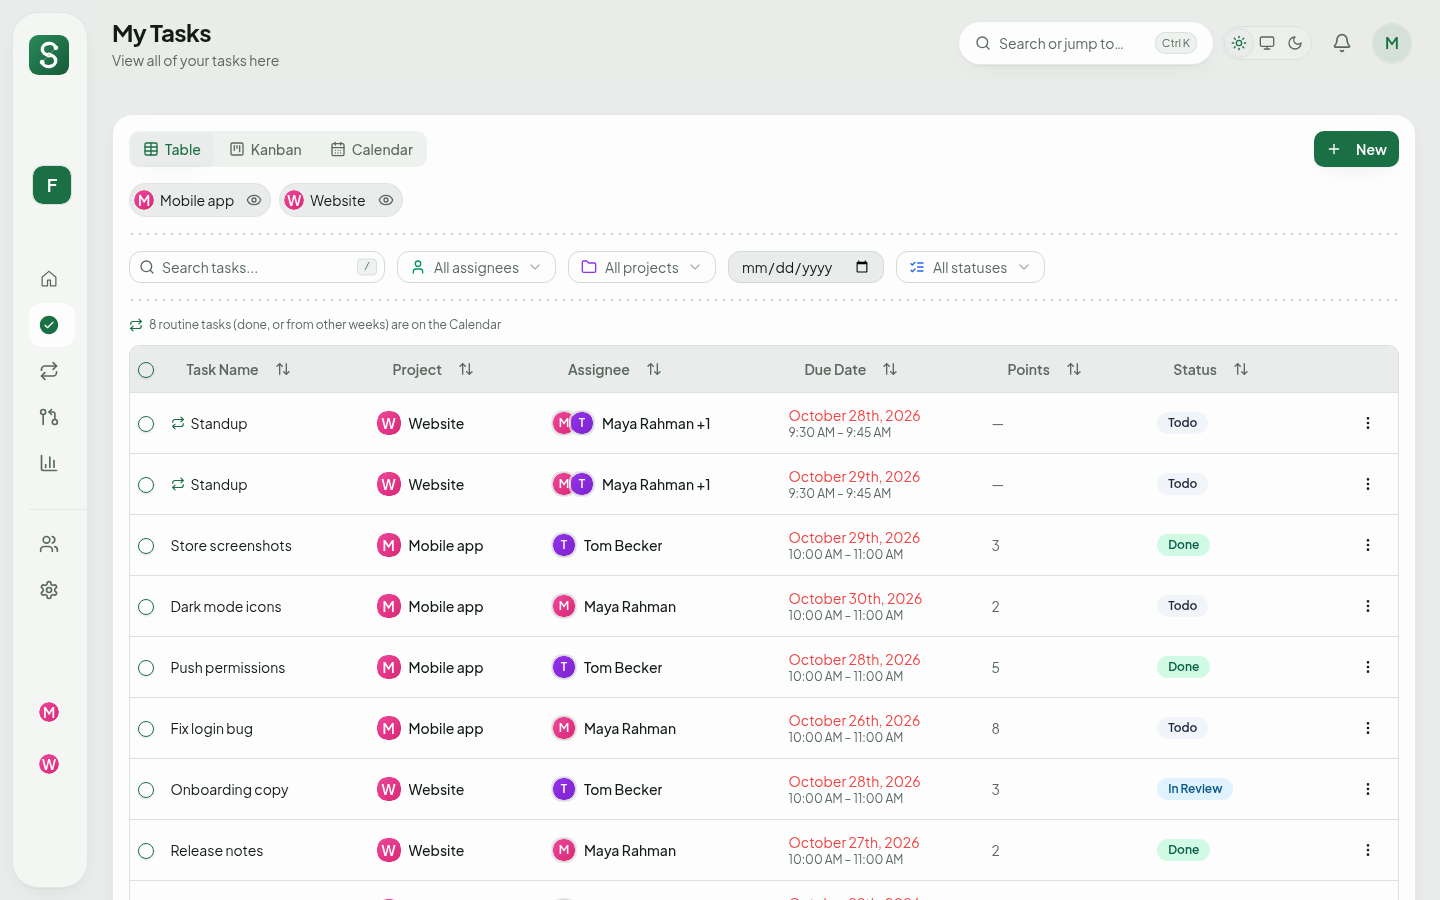
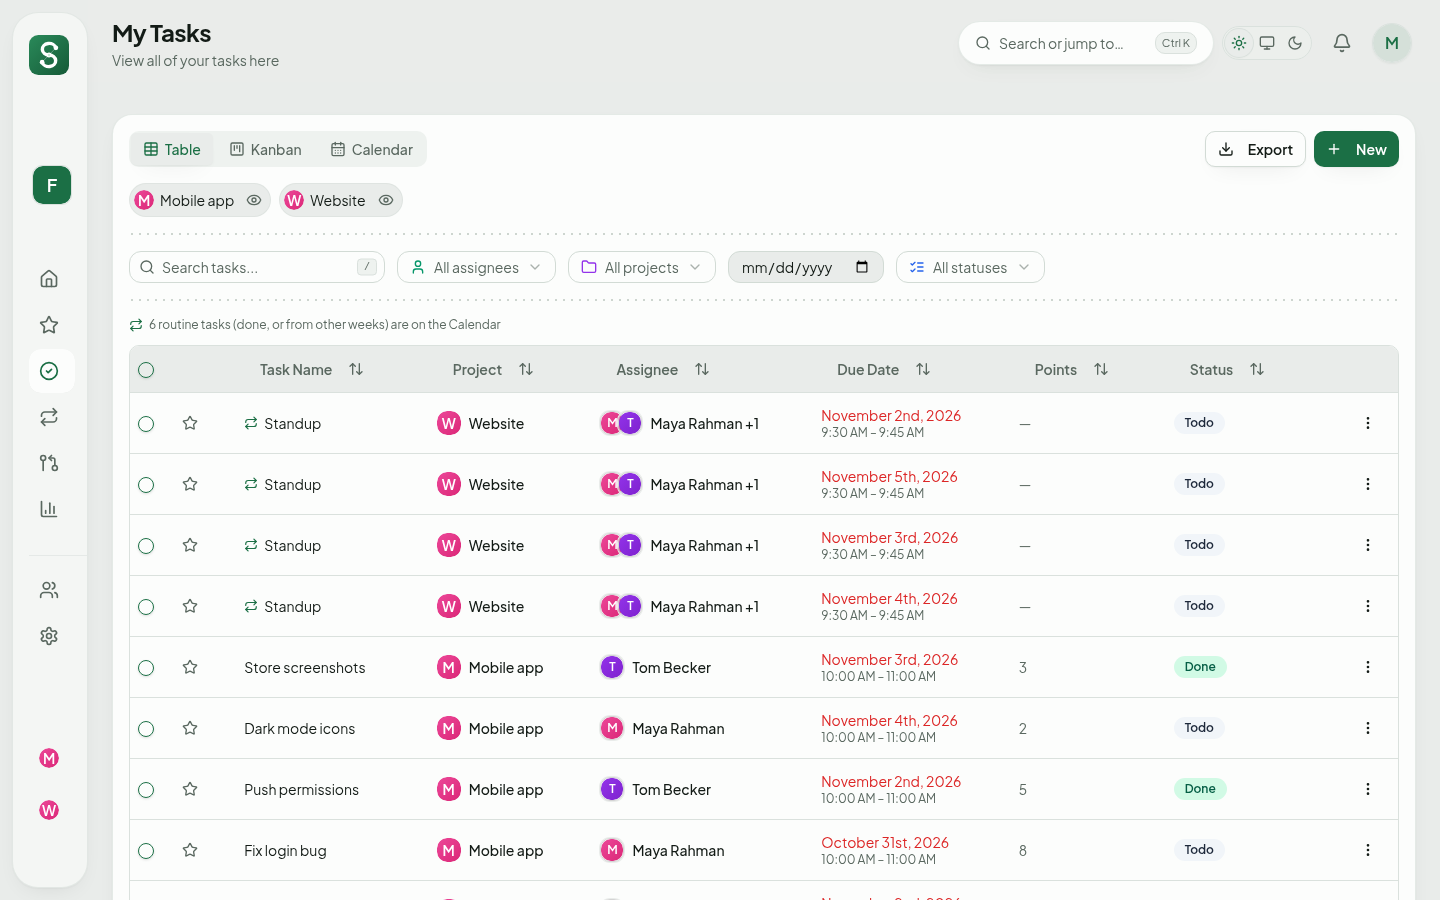
feat: update README and self-hosting documentation, add fresh start instructions; enhance accessibility tests and integrate Vercel Speed Insights

diff --git a/src/components/about-content.tsx b/src/components/about-content.tsx
@@ -38,6 +38,9 @@ import {
     CloudIcon,
     RefreshCwIcon,
     RepeatIcon,
+    StarIcon,
+    DownloadIcon,
+    SlidersHorizontalIcon,
     ShieldCheckIcon,
     GitPullRequestArrowIcon,
     BellIcon,
@@ -64,15 +67,18 @@ const roleCard = (role: MemberRole) => ({ label: ROLE_LABELS[role], description:
 const FEATURES = [
     { icon: TargetIcon, title: "Sprint Management", description: "Give each project a sprint, then follow its countdown, story points and progress from the dashboard.", badge: "Core Feature" },
     { icon: CheckCircleIcon, title: "Task Management", description: "Story points, due dates, time blocks and several assignees, moving through Backlog, To Do, In Progress, In Review and Done.", badge: "Core Feature" },
-    { icon: CalendarIcon, title: "Multiple Views", description: "Switch between a table, a kanban board and a calendar, with drag and drop in each. Undo is one click away.", badge: "Flexible" },
+    { icon: CalendarIcon, title: "Multiple Views", description: "Switch between a table, a kanban board and a calendar, with drag and drop in each. Drop a card on the bin to delete it; Undo is one click away.", badge: "Flexible" },
     { icon: RepeatIcon, title: "Weekly Routines", description: "Set up standups and other repeating work once. Tasks are created on their days through the sprint, skipping days off, and each routine picks the views its tasks show in. Personal routines need no project.", badge: "New!" },
     { icon: ShieldCheckIcon, title: "Roles & Review", description: "Admin, Supervisor, Reviewer, Assignee and Viewer. Assignees take work to In Review; a reviewer approves it to Done.", badge: "New!" },
     { icon: GitPullRequestArrowIcon, title: "Change Requests", description: "Assignees and reviewers propose new tasks, edits or deletions, and an admin or supervisor approves or declines them.", badge: "New!" },
-    { icon: BellIcon, title: "Reminders", description: "In-app and push notifications: tomorrow's tasks at 6 PM, 30 minutes before a task ends, and decisions on your requests.", badge: "Essential" },
+    { icon: BellIcon, title: "Reminders", description: "In-app and push notifications: tomorrow's tasks the evening before, a heads-up before a task ends (you pick both times), and decisions on your requests.", badge: "Essential" },
     { icon: ListPlusIcon, title: "Bulk Input", description: "Add, change or remove many projects, tasks, routines and days off at once, checked line by line, or let your AI assistant write them. Reviewers and assignees can add tasks too; tasks for others go for approval. You can even set up a whole new workspace this way.", badge: "New!" },
+    { icon: StarIcon, title: "Starred", description: "Star the tasks and routines you keep coming back to, and find them all on one page across your workspaces.", badge: "New!" },
+    { icon: DownloadIcon, title: "Export", description: "Tasks as CSV or a calendar file, a live calendar link for Google or Apple Calendar, charts as images, and a full backup of the workspace.", badge: "New!" },
+    { icon: SlidersHorizontalIcon, title: "Your Way", description: "Date and time format, week start, starting views, table sorting, compact Kanban cards, theme and reduced motion, saved to your account.", badge: "New!" },
     { icon: BarChart3Icon, title: "Analytics Dashboard", description: "Capacity calculator, burndown chart, velocity tracker and sprint reports.", badge: "Advanced" },
     { icon: UsersIcon, title: "Team Collaboration", description: "Invite links with optional expiry and use limits, a separate view-only link, and placeholders for people who haven't joined yet.", badge: "Essential" },
-    { icon: KeyboardIcon, title: "Keyboard Friendly", description: "Jump anywhere with Ctrl/⌘ K, create a task with C, search with /, and press ? for every shortcut.", badge: "Fast" },
+    { icon: KeyboardIcon, title: "Keyboard Friendly", description: "Jump anywhere with Ctrl/⌘ K, create a task with C, search with /, and press ? for every shortcut. Boards, the calendar and every dialog work without a mouse.", badge: "Fast" },
     { icon: SmartphoneIcon, title: "Works Everywhere", description: "Responsive on phones, tablets and desktops, installable as an app, with light and dark themes.", badge: "Universal" },
 ];
 
@@ -92,9 +98,9 @@ const ANALYTICS_TOOLS = [
 
 const BENEFITS = [
     { icon: ZapIcon, color: "text-green-600", title: "Fast", description: "Pages open straight from data cached in your browser, then refresh quietly in the background." },
-    { icon: ShieldIcon, color: "text-primary", title: "Secure by Default", description: "Argon2-hashed passwords, lockout after repeated failed logins, single-use reset links and TLS to the database." },
+    { icon: ShieldIcon, color: "text-primary", title: "Secure by Default", description: "Argon2-hashed passwords, email verification, lockout after repeated failed logins, single-use reset links and TLS to the database." },
     { icon: RefreshCwIcon, color: "text-blue-600", title: "Always in Sync", description: "Changes your teammates make show up on their own within a minute, without reloading." },
-    { icon: CloudIcon, color: "text-sky-600", title: "Your Own Data", description: "Stored in a self-hosted PostgreSQL database with nightly backups." },
+    { icon: CloudIcon, color: "text-sky-600", title: "Your Own Data", description: "Stored in a self-hosted PostgreSQL database with encrypted nightly backups, and yours to export any time." },
     { icon: CalendarDaysIcon, color: "text-purple-600", title: "Fits Your Calendar", description: "Public holidays, your own days off, working hours and your time zone shape routines and reminders." },
     { icon: HeartIcon, color: "text-red-600", title: "Made for Small Teams", description: "Built around how small agile teams actually plan, review and ship their sprints." },
 ];

diff --git a/src/features/workspaces/components/bulk-input.tsx b/src/features/workspaces/components/bulk-input.tsx
@@ -20,6 +20,7 @@ import { canEditWork, canManageWorkspace } from "@/features/members/permissions"
 import { useGetProjects } from "@/features/projects/api/use-get-projects";
 import { restoreTasks, toastWithUndo } from "@/features/tasks/api/undo";
 import { useConfirm } from "@/hooks/use-confirm";
+import { localDate } from "@/lib/time-zone";
 
 import type { LineResult } from "../server/bulk-input";
 import { Workspace } from "../types";
@@ -201,7 +202,7 @@ const BulkEditor = ({ run, prompt, applyLabel = "Apply", disabled, onApplied, in
             `- Workspace: "${workspaceName}"`,
             `- Existing projects: ${projectNames}`,
             `- Existing members and placeholders: ${memberNames}`,
-            `- Today is ${new Date().toISOString().slice(0, 10)}; times are in ${timeZone}.${workDay ? ` Working hours are ${workDay}.` : ""}`,
+            `- Today is ${localDate(new Date(), timeZone)}; times are in ${timeZone}.${workDay ? ` Working hours are ${workDay}.` : ""}`,
             "",
             "## Don'ts",
             "- Don't invent options, commands or statuses that aren't listed above.",

diff --git a/src/lib/reminders.ts b/src/lib/reminders.ts
@@ -5,7 +5,7 @@ import { and, eq, gte, isNotNull, lt, ne, sql } from "drizzle-orm";
 import { db } from "@/lib/db";
 import { members, notifications, projects, tasks, users, workspaces } from "@/lib/db/schema";
 import { pushToUser } from "@/lib/push";
-import { isValidTimeZone, zonedTimeToUtc } from "@/lib/time-zone";
+import { isValidTimeZone, localDate, zonedTimeToUtc } from "@/lib/time-zone";
 import { resolvePreferences } from "@/features/auth/preferences";
 import { TaskStatus } from "@/features/tasks/types";
 import { taskEnd } from "@/lib/overdue";
@@ -17,9 +17,6 @@ const DAY = 24 * 60 * MINUTE;
 // sends what fell due; the dedupe key keeps anything from going out twice
 export const LOOKBACK_MINUTES = 15;
 
-// YYYY-MM-DD of an instant in a time zone
-export const localDate = (instant: Date, timeZone: string) =>
-    new Intl.DateTimeFormat("en-CA", { timeZone, year: "numeric", month: "2-digit", day: "2-digit" }).format(instant);
 
 const atLocal = (date: string, time: string, timeZone: string) => {
     const [year, month, day] = date.split("-").map(Number);

diff --git a/src/lib/overdue.ts b/src/lib/overdue.ts
@@ -4,7 +4,7 @@ import { and, eq, inArray, isNotNull, lt, sql } from "drizzle-orm";
 
 import { db } from "@/lib/db";
 import { members, tasks, users, workspaces } from "@/lib/db/schema";
-import { isValidTimeZone, zonedTimeToUtc } from "@/lib/time-zone";
+import { isValidTimeZone, localDate, zonedTimeToUtc } from "@/lib/time-zone";
 import { resolvePreferences } from "@/features/auth/preferences";
 import { DEFAULT_DURATION_MINUTES } from "@/features/tasks/task-time";
 import { TaskStatus } from "@/features/tasks/types";
@@ -12,9 +12,6 @@ import { TaskStatus } from "@/features/tasks/types";
 const DEFAULT_TIME_ZONE = "Asia/Dhaka";
 // Tasks with only a date end when the workspace's working day ends (as for reminders)
 export const DEFAULT_DAY_END = "18:00";
-
-const localDate = (instant: Date, timeZone: string) =>
-    new Intl.DateTimeFormat("en-CA", { timeZone, year: "numeric", month: "2-digit", day: "2-digit" }).format(instant);
 
 // When a task ends: its time block's end, or the end of the working day on its due date, in the
 // assignee's time zone

diff --git a/src/app/layout.tsx b/src/app/layout.tsx
@@ -5,6 +5,7 @@ import { Plus_Jakarta_Sans } from "next/font/google";
 import { cn } from "@/lib/utils";
 import { Toaster } from "@/components/ui/sonner";
 import { NuqsAdapter } from "nuqs/adapters/next/app";
+import { SpeedInsights } from "@vercel/speed-insights/next";
 
 import { QueryProvider } from "@/components/query-providor";
 import { ThemeProvider } from "@/components/theme-provider";
@@ -79,6 +80,10 @@ export default async function RootLayout(
           </QueryProvider>
           </NuqsAdapter>
         </ThemeProvider>
+        {/* Real-user page speed (Vercel Speed Insights). Only on Vercel: elsewhere it would load a
+            debug script from Vercel's CDN. Its script and reports stay on this site (/_vercel/...),
+            which the CSP's 'self' and 'strict-dynamic' already allow */}
+        {process.env.VERCEL === "1" && <SpeedInsights />}
       </body>
     </html>
   );

diff --git a/e2e/a11y.spec.ts b/e2e/a11y.spec.ts
@@ -29,8 +29,11 @@ const scan = async (page: Page, label: string) => {
 const open = async (page: Page, path: string, ready: () => Promise<void>) => {
     await page.goto(path, { timeout: 90_000 });
     await ready();
-    // Let entrance animations settle so contrast is measured on final colors
-    await page.waitForTimeout(800);
+    // Let entrance animations settle so contrast is measured on final colors (staggered lists
+    // finish later the longer they are, so wait for them rather than a fixed time)
+    await page.waitForTimeout(300);
+    await page.waitForFunction(() => document.getAnimations().every((a) => a.playState !== "running"), null, { timeout: 10_000 });
+    await page.waitForTimeout(200);
 };
 
 test.beforeAll(async ({ baseURL }) => {

diff --git a/src/features/workspaces/server/bulk-apply.ts b/src/features/workspaces/server/bulk-apply.ts
@@ -7,7 +7,7 @@ import { removeAssignee } from "@/lib/db/assignees";
 import { members, projects, routines, tasks, users, workspaceHolidays } from "@/lib/db/schema";
 import { toTaskDoc } from "@/features/tasks/server/task-list";
 import { generateRoutineTasks, removeRoutineTasksOn, retimeUpcomingRoutineTasks } from "@/lib/routines";
-import { localDate } from "@/lib/reminders";
+import { localDate } from "@/lib/time-zone";
 import { MemberRole } from "@/features/members/types";
 
 import { AMBIGUOUS, sprintDays, taskReferences, type Context, type Planned } from "./bulk-input";

diff --git a/src/features/export/server/route.ts b/src/features/export/server/route.ts
@@ -10,7 +10,7 @@ import { and, arrayContains, arrayOverlaps, asc, eq, gte, inArray, isNotNull, is
 import { db } from "@/lib/db";
 import { changeRequests, members, projects, routines, tasks, users, workspaceHolidays, workspaces } from "@/lib/db/schema";
 import { rateLimited } from "@/lib/rate-limit";
-import { localDate } from "@/lib/reminders";
+import { localDate } from "@/lib/time-zone";
 import { sessionMiddleware } from "@/lib/session-middleware";
 import { VOLUME_CAPS } from "@/lib/volume-caps";
 import { forgetCachedSessions, mergePreferences } from "@/lib/auth";

diff --git a/src/lib/time-zone.ts b/src/lib/time-zone.ts
@@ -37,3 +37,7 @@ export const zonedTimeToUtc = (year: number, month: number, day: number, time: s
     const first = wallClock - offsetMinutes(timeZone, new Date(wallClock)) * 60_000;
     return new Date(wallClock - offsetMinutes(timeZone, new Date(first)) * 60_000);
 };
+
+// YYYY-MM-DD of an instant in a time zone
+export const localDate = (instant: Date, timeZone: string) =>
+    new Intl.DateTimeFormat("en-CA", { timeZone, year: "numeric", month: "2-digit", day: "2-digit" }).format(instant);

diff --git a/docs/self-hosting.md b/docs/self-hosting.md
@@ -62,6 +62,26 @@ It downloads that day's parts, checks the hash, decrypts, restores into a throwa
 
 Limits to know: the channel grows forever (bots can't delete their messages after 48 hours; a few MB a night is fine), and Telegram isn't a storage service, so the 14 local dumps stay the first copy.
 
+## Fresh start (empty the database)
+
+Deletes every user, workspace, task and session; everyone signs up again. The tables, roles and migration history stay, so nothing needs re-migrating.
+1. Back up first: `sh ~/docker/postgres/backup.sh` (a local dump plus the encrypted Telegram copy).
+2. Empty every app table in one transaction, as the superuser inside the container:
+   ```
+   docker exec -i scrumspecter-postgres psql -U scrumspecter -d scrumspecter -v ON_ERROR_STOP=1 <<'SQL'
+   BEGIN;
+   DO $$ DECLARE stmt text; BEGIN
+     SELECT 'TRUNCATE TABLE ' || string_agg(format('%I.%I', schemaname, tablename), ', ') || ' RESTART IDENTITY CASCADE'
+       INTO stmt FROM pg_tables WHERE schemaname = 'public';
+     EXECUTE stmt;
+   END $$;
+   COMMIT;
+   SQL
+   ```
+   Migration history lives in the `drizzle` schema, which this leaves alone.
+3. Apply any pending migrations as usual (Database, step 4).
+4. Optional: delete older dumps in `backups/`. Keep `telegram-backups.log`: restoring a Telegram backup needs it. Sessions cached by a running server end within 30 seconds.
+
 ## Monitoring
 - **Uptime:** `.github/workflows/uptime.yml` calls `/api/health` every 15 minutes from GitHub. The endpoint answers 200 with `{"ok":true,"db":"up"}`, or 503 when the database can't be reached in 3 seconds. A failing run emails the repo owner.
 - **Disk space:** `scripts/pi/disk-alert.sh` posts to the Telegram channel when `/mnt/pgdata` or `/mnt/torrents` is over 80% full (once a day per disk). Crontab: `0 * * * * sh /home/<ssh-user>/docker/postgres/disk-alert.sh`.

diff --git a/README.md b/README.md
@@ -48,7 +48,7 @@
 | 🗂 **Three views, one board** | Table, kanban and calendar, all with drag and drop, undo and bulk edit. |
 | 👥 **Roles that fit real teams** | Admins, Supervisors, Reviewers, Assignees and Viewers. Anyone without edit rights proposes a change request instead. |
 | 🔁 **Routines that plan themselves** | Weekly tasks are generated through the end of the sprint and skip holidays and your days off. Personal routines (no project) keep the next two weeks filled. |
-| 🔔 **Reminders that land** | Push and in-app: a 6 PM preview of tomorrow, plus a nudge 30 minutes before a task ends. |
+| 🔔 **Reminders that land** | Push and in-app: an evening preview of tomorrow, plus a nudge before a task ends, at times you choose. |
 | 🤖 **Bulk input with an AI prompt** | Set up a whole sprint in one paste. Every line is validated before anything is saved. |
 | 📈 **Analytics built in** | Burndown, velocity, a capacity calculator and a Markdown sprint report. |
 
@@ -288,7 +288,7 @@ Both need `Authorization: Bearer $CRON_SECRET`.
 
 ## 🛠 Deployment and self-hosting
 
-The live site runs on Vercel with a self-hosted PostgreSQL 17 database. The full setup (database container, TLS, users and permissions, backups and production migrations) is in **[docs/self-hosting.md](docs/self-hosting.md)**.
+The live site runs on Vercel with a self-hosted PostgreSQL 17 database. The full setup (database container, TLS, users and permissions, backups, production migrations and a fresh start) is in **[docs/self-hosting.md](docs/self-hosting.md)**.
 
 ## 🤝 Contributing
 
